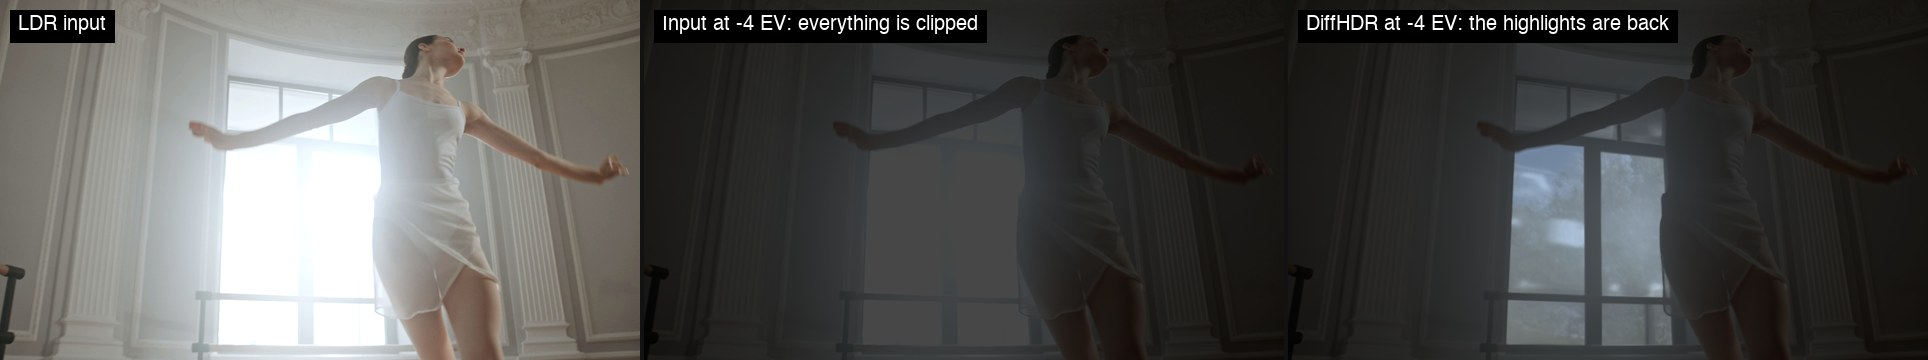
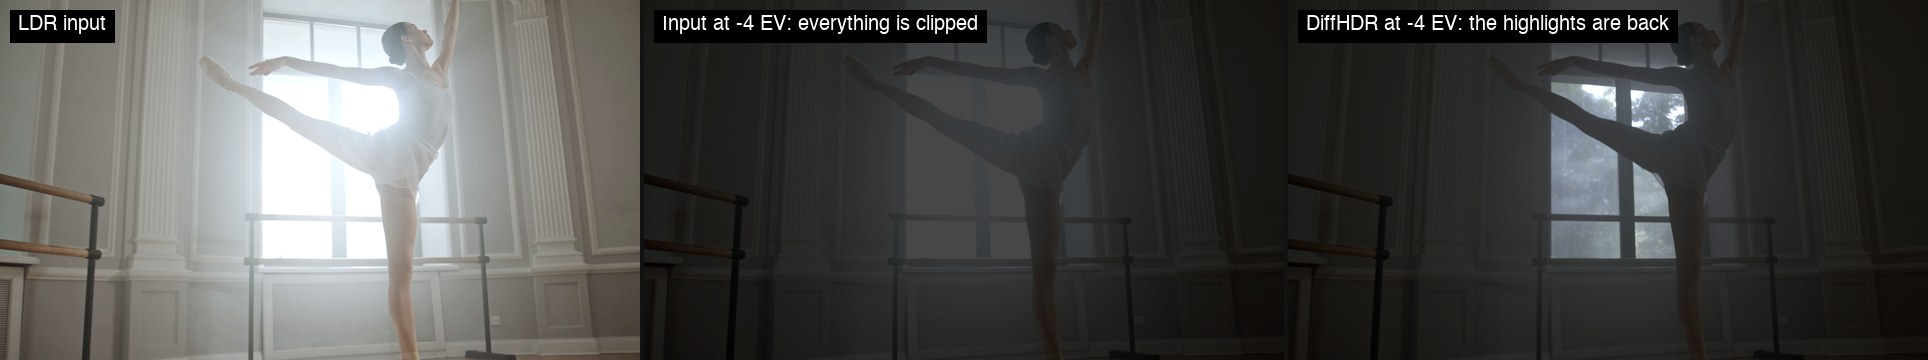
docs(readme): hero image from the first frame of the dance sequence

diff --git a/README.md b/README.md
@@ -6,9 +6,10 @@ Wan2.1-VACE-14B objects — no VACE fork, no bundled inference engine.
 
 ![The clipped LDR input, the same input four stops down, and the DiffHDR reconstruction four stops down](assets/readme/hero.jpg)
 
-*One frame of the demo dance sequence. Left: the clipped LDR input. Middle: the same input pulled
-down four stops — the window is a flat white shape, there is nothing to recover. Right: the DiffHDR
-reconstruction at the same −4 EV, with the sky and the trees outside the window back.*
+*The first frame of the demo dance sequence. Left: the clipped LDR input. Middle: the same input
+pulled down four stops — the window is a flat white shape, there is nothing to recover. Right: the
+DiffHDR reconstruction at the same −4 EV (the node's defaults: `fast` preset, 20 steps), with the sky
+and the trees outside the window back.*
 
 ## What it is
 
